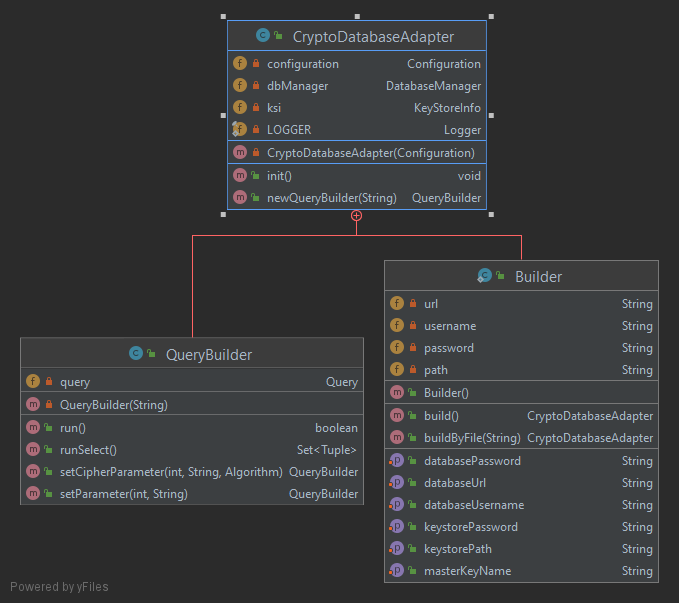
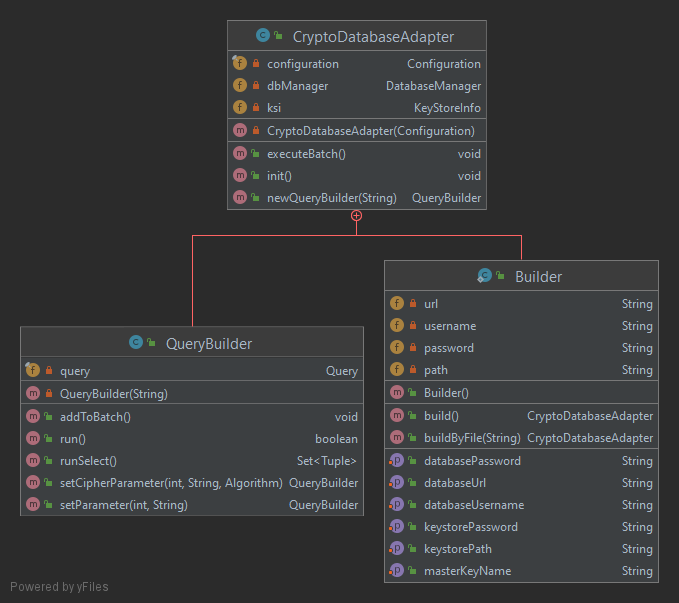
feat: update docs images

diff --git a/src/main/java/clientsideEncryption/examples/CreateTableAndQueryItExample.java b/src/main/java/clientsideEncryption/examples/CreateTableAndQueryItExample.java
@@ -7,7 +7,12 @@ import clientsideEncryption.core.exceptions.ConfigurationFileError;
 import clientsideEncryption.core.exceptions.InitializationError;
 import clientsideEncryption.core.exceptions.InvalidQueryException;
 import clientsideEncryption.core.exceptions.QueryExecutionError;
+import com.sun.management.OperatingSystemMXBean;
 
+import javax.management.MBeanServerConnection;
+import java.io.IOException;
+import java.lang.management.ManagementFactory;
+import java.sql.SQLException;
 import java.util.Set;
 
 public class CreateTableAndQueryItExample {
@@ -16,6 +21,16 @@ public class CreateTableAndQueryItExample {
             CryptoDatabaseAdapter cda = new CryptoDatabaseAdapter.Builder()
                     .buildByFile("src/main/resources/config.properties");
             cda.init();
+
+            MBeanServerConnection mbsc = ManagementFactory.getPlatformMBeanServer();
+
+            OperatingSystemMXBean osMBean = ManagementFactory.newPlatformMXBeanProxy(
+                    mbsc, ManagementFactory.OPERATING_SYSTEM_MXBEAN_NAME, OperatingSystemMXBean.class);
+
+            long nanoBefore = System.nanoTime();
+            long cpuBefore = osMBean.getProcessCpuTime();
+            System.out.println(nanoBefore/1000000);
+            System.out.println(cpuBefore/1000000);
             cda.newQueryBuilder("drop table if exists users").run();
             cda.newQueryBuilder("create table users(" +
                                                     "id varchar(255) primary key, " +
@@ -28,23 +43,28 @@ public class CreateTableAndQueryItExample {
                     .setParameter(1,"1")
                     .setParameter(2,"Josh")
                     .setCipherParameter(3,"54589720575", CryptoUtils.Algorithm.AES192)
-                    .run();
+                    .addToBatch();
             cda.newQueryBuilder("insert into users(id,name,creditCardNumber)" +
                     "values(?,?,?)")
                     .setParameter(1,"2")
                     .setParameter(2,"Mary")
                     .setCipherParameter(3,"786787575", CryptoUtils.Algorithm.AES128)
-                    .run();
+                    .addToBatch();
             cda.newQueryBuilder("insert into users(id,name,creditCardNumber)" +
                     "values(?,?,?)")
                     .setParameter(1,"3")
                     .setParameter(2,"Luke")
                     .setCipherParameter(3,"90904534", CryptoUtils.Algorithm.AES128)
-                    .run();
+                    .addToBatch();
+            cda.executeBatch();
 
+            long nanoAfter = System.nanoTime();
+            long cpuAfter = osMBean.getProcessCpuTime();
+            System.out.println("Elapsed Time(ms): " + (nanoAfter-nanoBefore)/(1000000));
+            System.out.println("CPU Time: " + (cpuAfter-cpuBefore)/1000000);
             Set<Tuple> result = cda.newQueryBuilder("select * from users").runSelect();
             result.forEach(System.out::println);
-        } catch (ConfigurationFileError | QueryExecutionError | InitializationError | InvalidQueryException configurationFileError) {
+        } catch (ConfigurationFileError | QueryExecutionError | InitializationError | InvalidQueryException | IOException | SQLException configurationFileError) {
             configurationFileError.printStackTrace();
         }
     }
